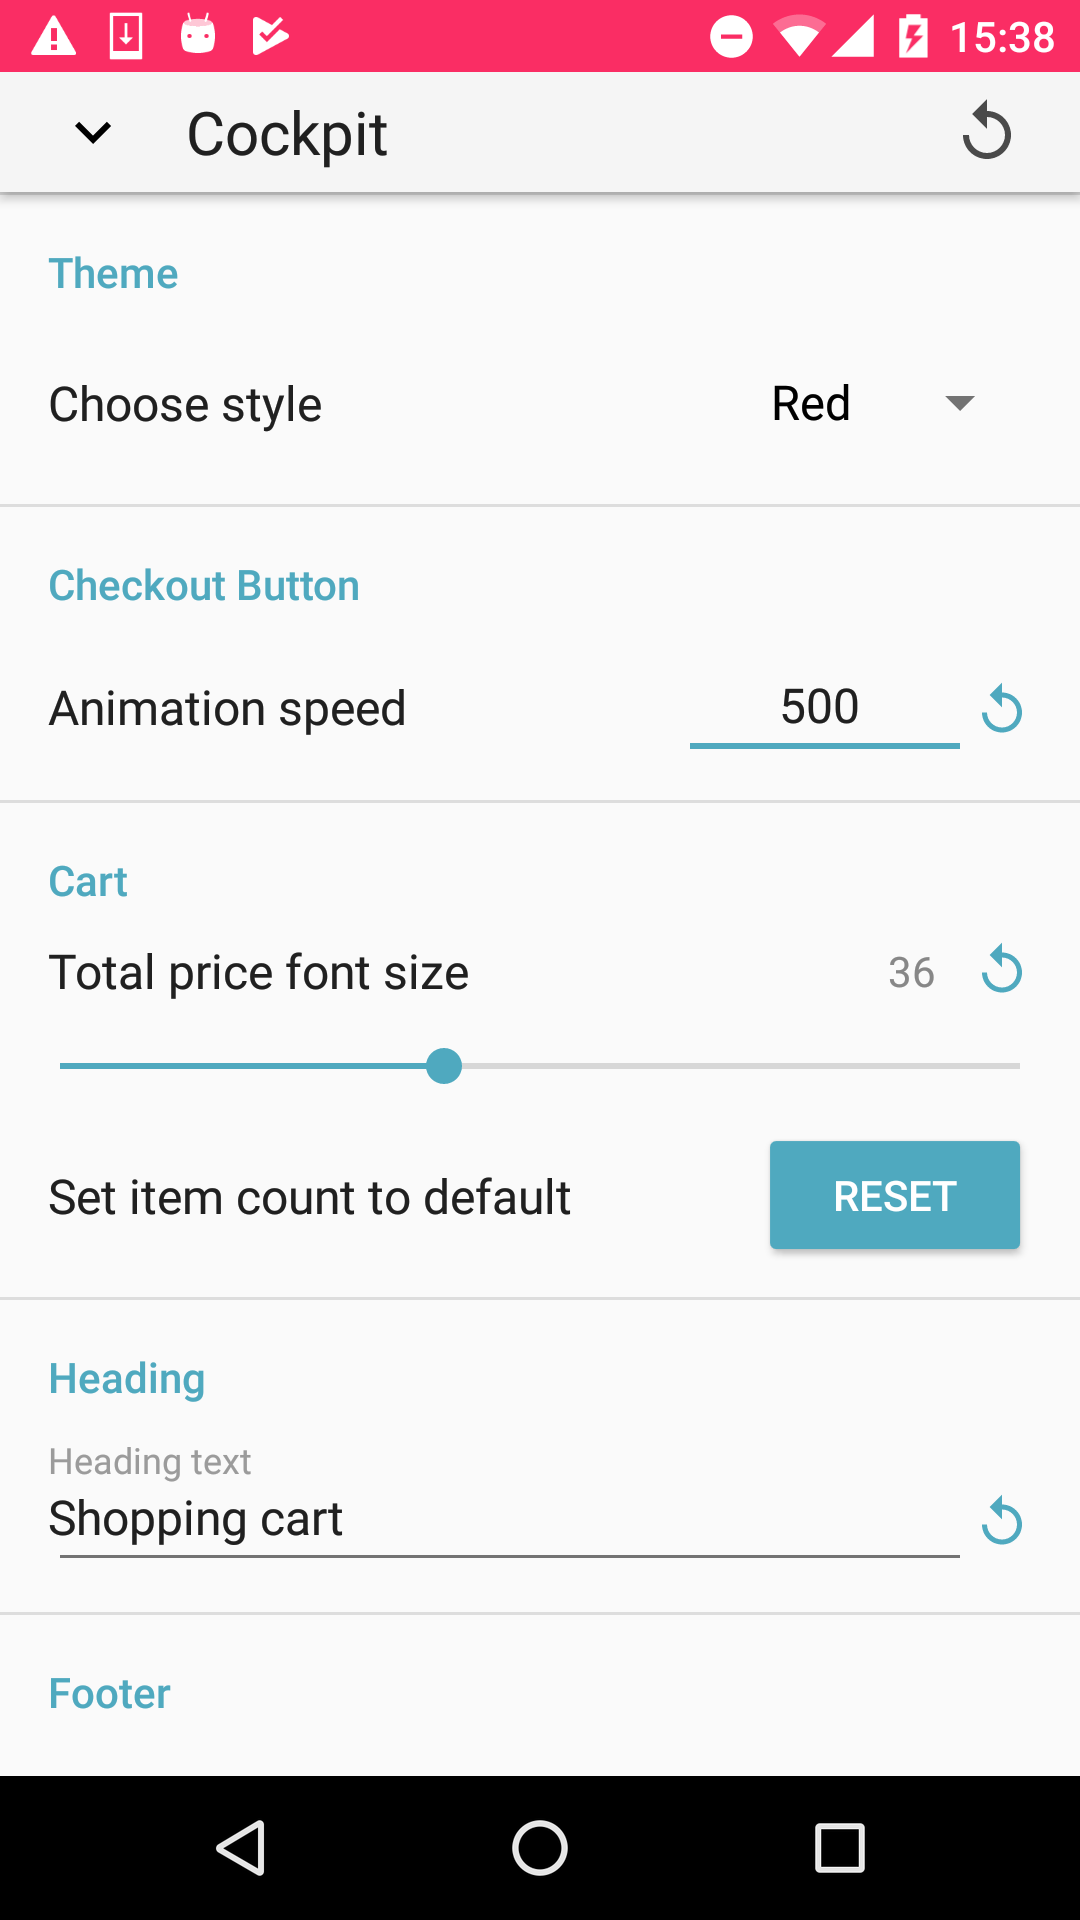
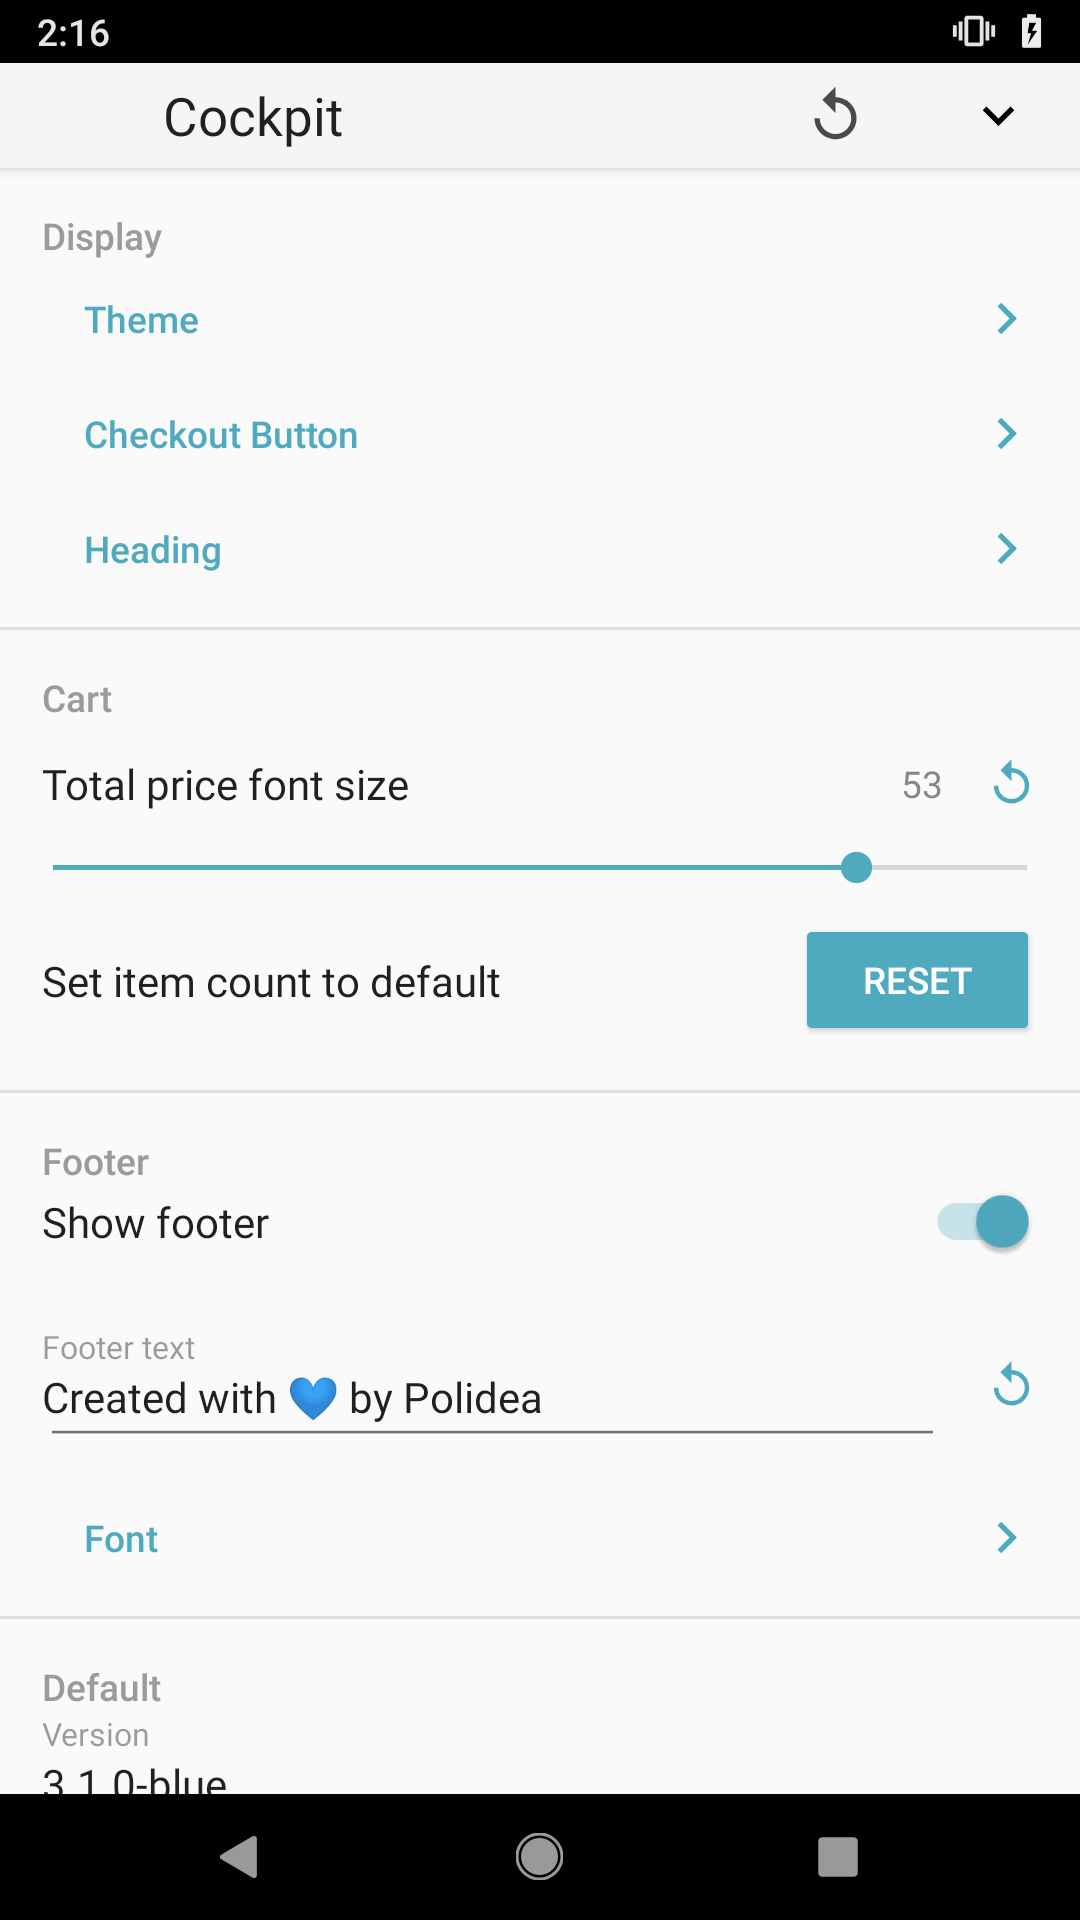
README.md update

diff --git a/README.md b/README.md
@@ -12,7 +12,7 @@ It consists of three parts:
 - Android library containing classes to manage and display those params,  
 - CockpitCore module containing classes common for plugin and the library.
 
-<img src="https://github.com/Polidea/Cockpit/blob/master/images/cockpit-3.0.gif" width="270" height="480">
+<img src="https://github.com/Polidea/Cockpit/blob/update_to_3.1.0/images/cockpit-3.1.0.gif" width="270" height="480">
 
 Each defined value is called `param`. The set of params is called `cockpit`.
 
@@ -33,9 +33,9 @@ showDescription: true
 After you've built your project, `Cockpit.java` file will get generated for you. You can use it like any other code in your project.
 
 <p float="left">
-    <img src="https://github.com/Polidea/Cockpit/blob/master/images/cockpit-full.png" width="216" height="384" />
-    <img src="https://github.com/Polidea/Cockpit/blob/master/images/cockpit-half.png" width="216" height="384" />
-    <img src="https://github.com/Polidea/Cockpit/blob/master/images/cockpit-list.png" width="216" height="384" />
+    <img src="https://github.com/Polidea/Cockpit/blob/update_to_3.1.0/images/cockpit-full.png" width="216" height="384" />
+    <img src="https://github.com/Polidea/Cockpit/blob/update_to_3.1.0/images/cockpit-half.png" width="216" height="384" />
+    <img src="https://github.com/Polidea/Cockpit/blob/update_to_3.1.0/images/cockpit-list.png" width="216" height="384" />
 </p>
 
 ### Documentation
@@ -139,6 +139,21 @@ fontColor:
   description: "Font color"
   value: "#223344"
   group: "Header"
+```
+
+> You can create **paged subgroups** as well. To define a paged subgroup, use slashes in group name. If you begin your subgroup's name with `/`, it will be placed inside `Default` group. You can embed the subgroups as deep as you see fit. To navigate between the subgroups, use home button on the action bar or `NAVIGATE TO` button.
+
+The following snippet will create group named `Display` with subgroup `Header` and parameters `fontSize` and `fontColor` inside.
+```
+fontSize:
+  description: "Font size"
+  value: 18
+  group: "Display/Header"
+fontColor:
+  type: color
+  description: "Font color"
+  value: "#223344"
+  group: "Display/Header"
 ```
 
 #### Generating Cockpit
@@ -259,7 +274,7 @@ To get it to work, you need to disable configuration on demand in your Android S
 
 ## License
 ```
-Copyright 2018 Polidea
+Copyright 2018-2019 Polidea
 
 Licensed under the Apache License, Version 2.0 (the "License");
 you may not use this file except in compliance with the License.
